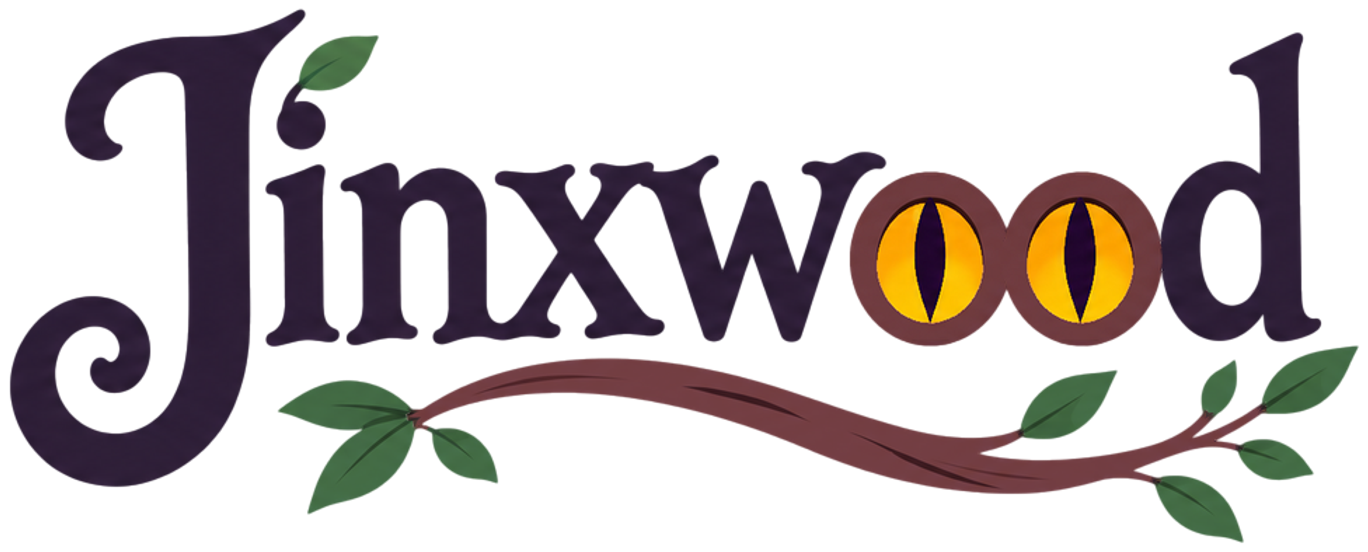
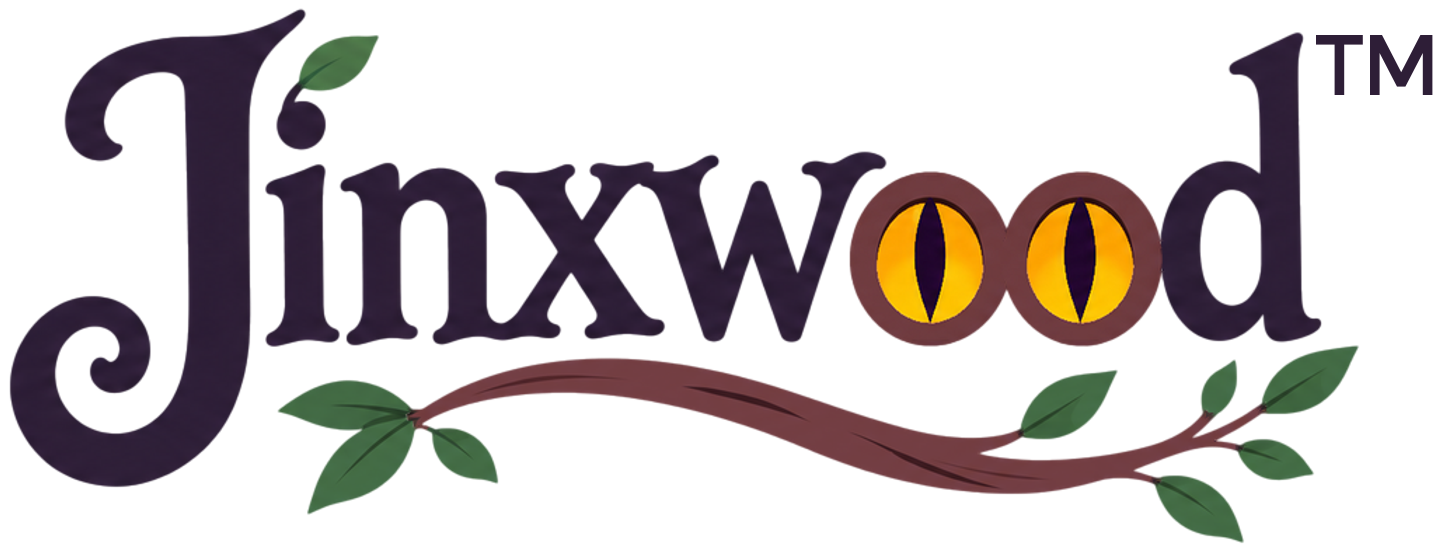
Mark the Jinxwood wordmark with a trademark symbol
The trademark application is filed, so the lettering now carries a small
TM, and the footer says who owns the mark.

- The hero and header wordmarks draw the symbol over the image, in the
  image's own coordinates, so it scales with the wordmark and stays with
  it as it docks into the header.
- The press logo and wordmark downloads have the symbol drawn in, on a
  slightly wider canvas. The emblems, icons and social image carry none.
- The source art is untouched. Which symbol it is, and where it sits in
  each logo, is set once in build-brand, which draws it as plain shapes
  so the output does not depend on installed fonts. Switching "tm" to
  "r" and rebuilding updates the site and the press files together.
- The footer adds "Jinxwood is a trademark of Evolonix LLC."

diff --git a/src/app/press/page.tsx b/src/app/press/page.tsx
@@ -2,7 +2,8 @@ import type { ReactNode } from "react";
 import { AppLink } from "../_components/app-link";
 import { Eyebrow } from "../_components/eyebrow";
 import { DownloadIcon } from "../_components/icons";
-import { Logo, type LogoName } from "../_components/logo";
+import { Logo, TrademarkSymbol, type LogoName } from "../_components/logo";
+import { IMAGE_SIZES } from "../_lib/brand.gen";
 import {
   GAMES,
   liveStores,
@@ -94,26 +95,46 @@ export default function Press() {
 
       <Block title="Logos">
         <ul className="grid gap-6 sm:grid-cols-2">
-          {PRESS.downloads.map((item) => (
-            <li
-              key={item.file}
-              className="ring-night-line overflow-hidden rounded-2xl ring-1"
-            >
-              <div
-                className={`flex h-48 items-center justify-center p-8 ${
-                  item.on === "parchment" ? "bg-parchment" : "bg-night-deep"
-                }`}
+          {PRESS.downloads.map((item) => {
+            const name: LogoName = item.preview;
+            const { width, height } = IMAGE_SIZES[name];
+            return (
+              <li
+                key={item.file}
+                className="ring-night-line overflow-hidden rounded-2xl ring-1"
               >
-                <Logo
-                  name={item.preview as LogoName}
-                  sizes="20rem"
-                  alt=""
-                  className="max-h-full w-auto max-w-full object-contain"
+                <div
+                  className={`flex h-48 items-center justify-center p-8 ${
+                    item.on === "parchment" ? "bg-parchment" : "bg-night-deep"
+                  }`}
+                >
+                  {/* A box of exactly the logo's shape, as tall as the 8rem
+                      this tile leaves or as wide as it allows, so the
+                      trademark symbol lands where the download has it. */}
+                  <div
+                    className="relative"
+                    style={{
+                      width: `min(100%, ${(8 * width) / height}rem)`,
+                      aspectRatio: `${width} / ${height}`,
+                    }}
+                  >
+                    <Logo
+                      name={name}
+                      sizes="20rem"
+                      alt=""
+                      className="h-full w-full"
+                    />
+                    <TrademarkSymbol name={name} />
+                  </div>
+                </div>
+                <Download
+                  href={item.file}
+                  label={item.label}
+                  note={item.note}
                 />
-              </div>
-              <Download href={item.file} label={item.label} note={item.note} />
-            </li>
-          ))}
+              </li>
+            );
+          })}
         </ul>
         <ul className="text-parchment-muted mt-8 max-w-3xl list-disc space-y-2 pl-5">
           {PRESS.rules.map((rule) => (

diff --git a/src/app/_components/logo.tsx b/src/app/_components/logo.tsx
@@ -1,4 +1,4 @@
-import { IMAGE_SIZES } from "../_lib/brand.gen";
+import { IMAGE_SIZES, TRADEMARK } from "../_lib/brand.gen";
 
 /**
  * The logo cut-outs made by scripts/build-brand.mjs:
@@ -29,6 +29,41 @@ interface LogoProps {
   /** Defaults to the studio name. Pass "" where the logo is decoration. */
   alt?: string;
   className?: string;
+}
+
+/** Where the symbol sits, for the logos that have lettering to carry it. */
+const TRADEMARK_AT: Partial<
+  Record<LogoName, { x: number; y: number; height: number; color: string }>
+> = TRADEMARK.at;
+
+/**
+ * The trademark symbol, drawn over a logo just past the end of its lettering.
+ * The images themselves stay unmarked, so the symbol can change without
+ * redrawing them: build-brand decides which symbol it is and where it sits.
+ *
+ * Put it beside the <Logo> inside a positioned box that is exactly as wide as
+ * the image. It is drawn in the image's own coordinates, so it grows and
+ * shrinks with the logo, and it hangs past the box's right edge. An emblem
+ * has no lettering and gets nothing.
+ */
+export function TrademarkSymbol({ name }: { name: LogoName }) {
+  const { width, height } = IMAGE_SIZES[name];
+  const at = TRADEMARK_AT[name];
+  if (!at) return null;
+  return (
+    <svg
+      aria-hidden="true"
+      viewBox={`0 0 ${width} ${height}`}
+      className="pointer-events-none absolute top-0 left-0 w-full overflow-visible"
+    >
+      <path
+        d={TRADEMARK.path}
+        fill={at.color}
+        fillRule="evenodd"
+        transform={`translate(${at.x} ${at.y}) scale(${at.height / 100})`}
+      />
+    </svg>
+  );
 }
 
 export function Logo({ name, sizes, alt = "Jinxwood", className }: LogoProps) {

diff --git a/src/app/_lib/content.ts b/src/app/_lib/content.ts
@@ -9,6 +9,7 @@ export const STUDIO = {
   owner: "Evolonix LLC",
   copyright: "© 2026 Evolonix LLC",
   legalLine: "Jinxwood is the gaming brand of Evolonix LLC.",
+  trademark: "Jinxwood is a trademark of Evolonix LLC.",
   url: "https://jinxwood.com",
   email: "hello@jinxwood.games",
   tagline: "Games with a little mischief and a little magic.",
@@ -163,28 +164,28 @@ export const PRESS = {
       file: "/press/jinxwood-logo-for-dark.png",
       preview: "lockup",
       on: "night",
-      note: "Transparent PNG, 1538 × 626",
+      note: "Transparent PNG, 1592 × 626",
     },
     {
       label: "Logo for light backgrounds",
       file: "/press/jinxwood-logo-for-light.png",
       preview: "lockup-light",
       on: "parchment",
-      note: "Transparent PNG, 1538 × 626",
+      note: "Transparent PNG, 1592 × 626",
     },
     {
       label: "Wordmark for dark backgrounds",
       file: "/press/jinxwood-wordmark-for-dark.png",
       preview: "wordmark",
       on: "night",
-      note: "Transparent PNG, 1368 × 552",
+      note: "Transparent PNG, 1442 × 552",
     },
     {
       label: "Wordmark for light backgrounds",
       file: "/press/jinxwood-wordmark-for-light.png",
       preview: "wordmark-light",
       on: "parchment",
-      note: "Transparent PNG, 1368 × 552",
+      note: "Transparent PNG, 1442 × 552",
     },
     {
       label: "Emblem for dark backgrounds",

diff --git a/src/app/_components/hero.tsx b/src/app/_components/hero.tsx
@@ -5,7 +5,7 @@ import { gamePath } from "../_lib/seo";
 import { ArrowRightIcon, PauseIcon, PlayIcon } from "./icons";
 import { Button } from "./button";
 import { Fireflies } from "./fireflies";
-import { Logo } from "./logo";
+import { Logo, TrademarkSymbol } from "./logo";
 
 // The sizes scripts/build-brand.mjs writes. index.html preloads the same AVIF
 // lists, so keep all three in step.
@@ -147,12 +147,16 @@ export function Hero() {
           />
           {/* The header takes this wordmark over as the page scrolls; the
               marker is how it finds it (see useWordmarkDock). */}
-          <div data-hero-wordmark className="relative w-fit">
+          <div
+            data-hero-wordmark
+            className="relative w-fit drop-shadow-[0_4px_24px_rgb(26_18_45/0.6)]"
+          >
             <Logo
               name="wordmark"
               sizes="(max-width: 30rem) 76vw, 22rem"
-              className="tall:w-[min(22rem,58vw)] h-auto w-[min(22rem,76vw)] drop-shadow-[0_4px_24px_rgb(26_18_45/0.6)]"
+              className="tall:w-[min(22rem,58vw)] h-auto w-[min(22rem,76vw)]"
             />
+            <TrademarkSymbol name="wordmark" />
           </div>
           <h1 className="relative mt-6 text-4xl leading-[1.08] [text-shadow:0_2px_20px_rgb(26_18_45/0.75)] sm:text-5xl lg:text-6xl">
             {STUDIO.tagline}

diff --git a/src/app/_lib/brand.gen.ts b/src/app/_lib/brand.gen.ts
@@ -35,3 +35,37 @@ export const IMAGE_SIZES = {
     "height": 2016
   }
 } as const;
+
+// The trademark symbol the lettering carries: its shape in a box 100 units
+// tall (filled with the even-odd rule), and its left edge, top edge, height
+// and color in each logo's own pixels. The press downloads have it drawn in.
+export const TRADEMARK = {
+  "symbol": "tm",
+  "path": "M0 0H78V16H47V100H31V16H0ZM90 0H110L142 62L174 0H194V100H178V30L149 86H135L106 30V100H90Z",
+  "at": {
+    "wordmark": {
+      "x": 1304,
+      "y": 34,
+      "height": 60,
+      "color": "#fef0d4"
+    },
+    "wordmark-light": {
+      "x": 1316,
+      "y": 35,
+      "height": 60,
+      "color": "#2e1e37"
+    },
+    "lockup": {
+      "x": 1498,
+      "y": 174,
+      "height": 44,
+      "color": "#fef0d4"
+    },
+    "lockup-light": {
+      "x": 1498,
+      "y": 174,
+      "height": 44,
+      "color": "#2e1e37"
+    }
+  }
+} as const;

diff --git a/src/app/_components/header.tsx b/src/app/_components/header.tsx
@@ -4,7 +4,7 @@ import { STUDIO } from "../_lib/content";
 import { useScrolled } from "../_lib/use-scrolled";
 import { useWordmarkDock } from "../_lib/use-wordmark-dock";
 import { Button } from "./button";
-import { Logo } from "./logo";
+import { Logo, TrademarkSymbol } from "./logo";
 
 /**
  * Sticky site header. Transparent at the top of a page, so the home hero shows
@@ -59,7 +59,7 @@ export function Header() {
         >
           <span
             data-wordmark-mark
-            className={`block origin-top-left ${
+            className={`relative block origin-top-left ${
               dock === "moving" ? "will-change-transform" : ""
             }`}
           >
@@ -71,6 +71,7 @@ export function Header() {
               alt=""
               className="h-9 w-auto sm:h-11"
             />
+            <TrademarkSymbol name="wordmark" />
           </span>
         </Link>
         <nav

diff --git a/src/app/_components/footer.tsx b/src/app/_components/footer.tsx
@@ -16,6 +16,7 @@ export function Footer() {
           <div className="text-parchment-muted text-sm">
             <p>{STUDIO.copyright}</p>
             <p>{STUDIO.legalLine}</p>
+            <p>{STUDIO.trademark}</p>
           </div>
         </div>
         <nav
